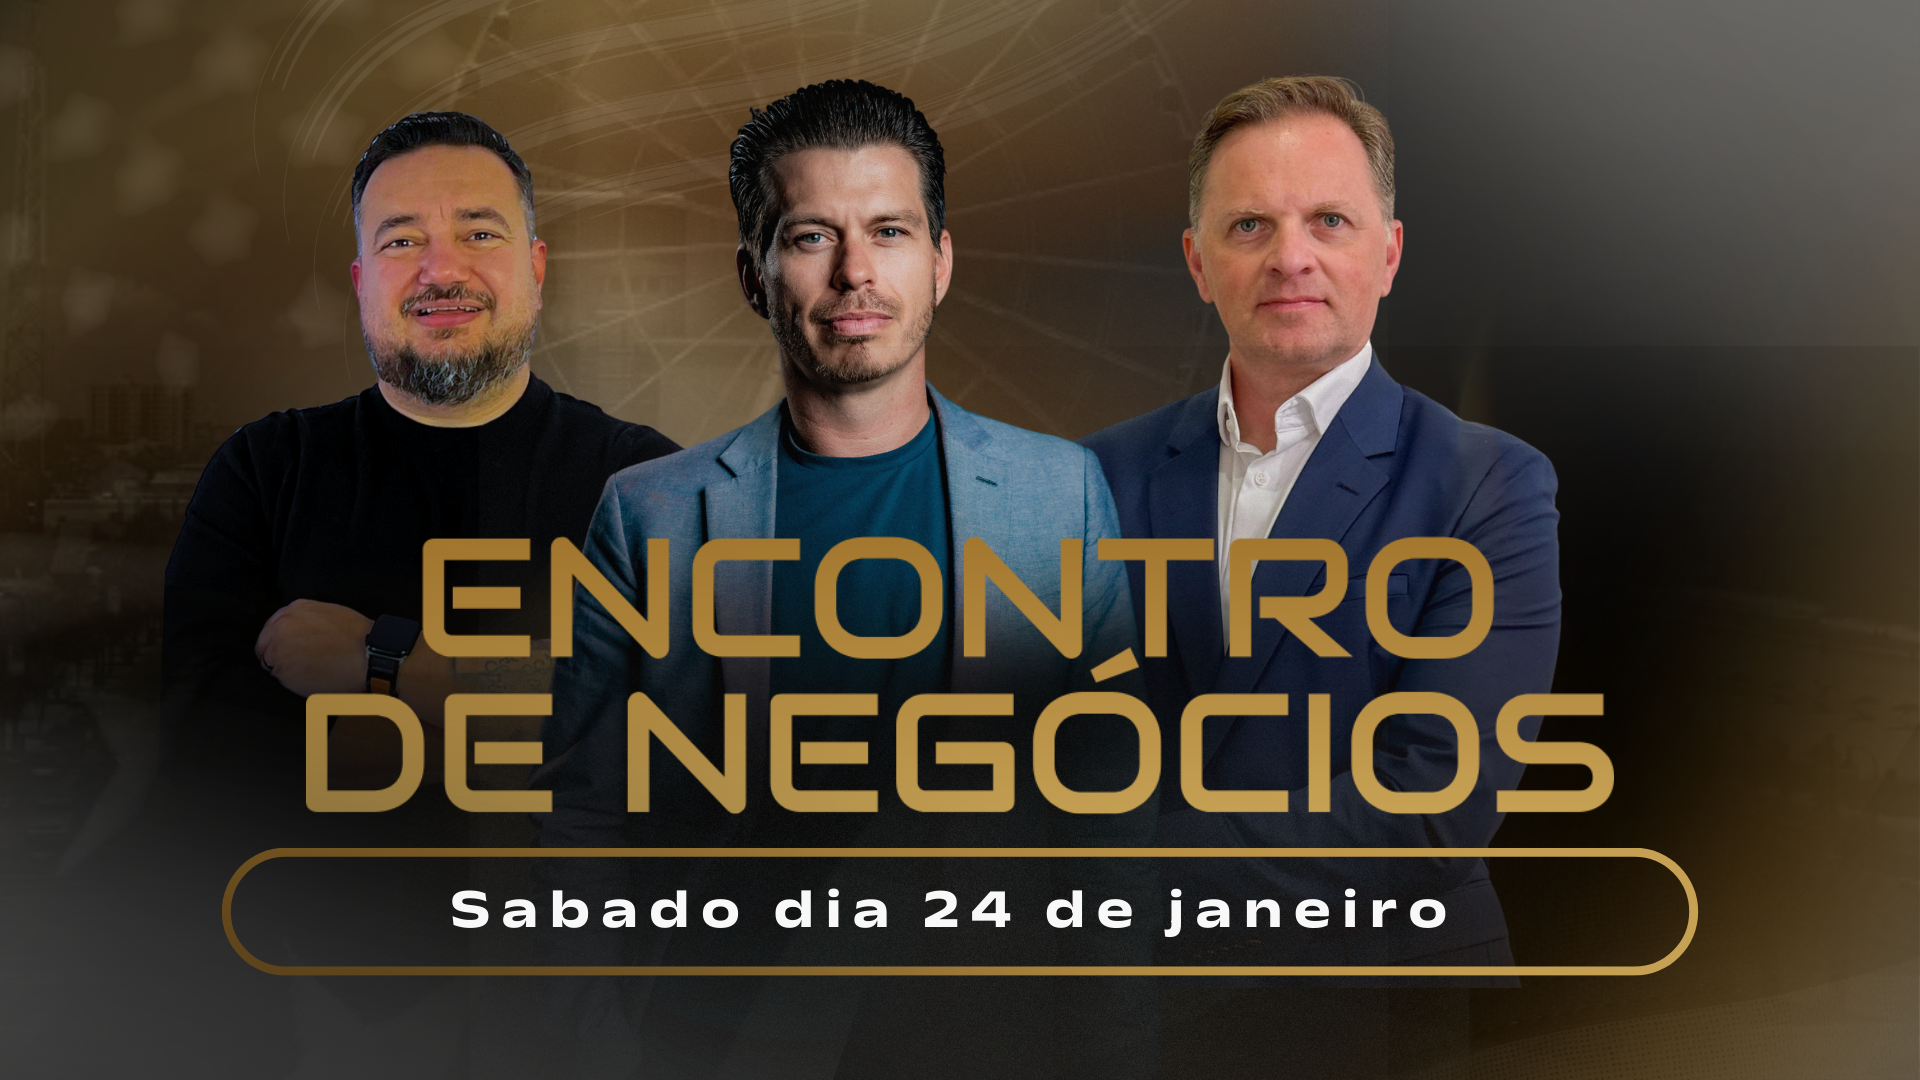
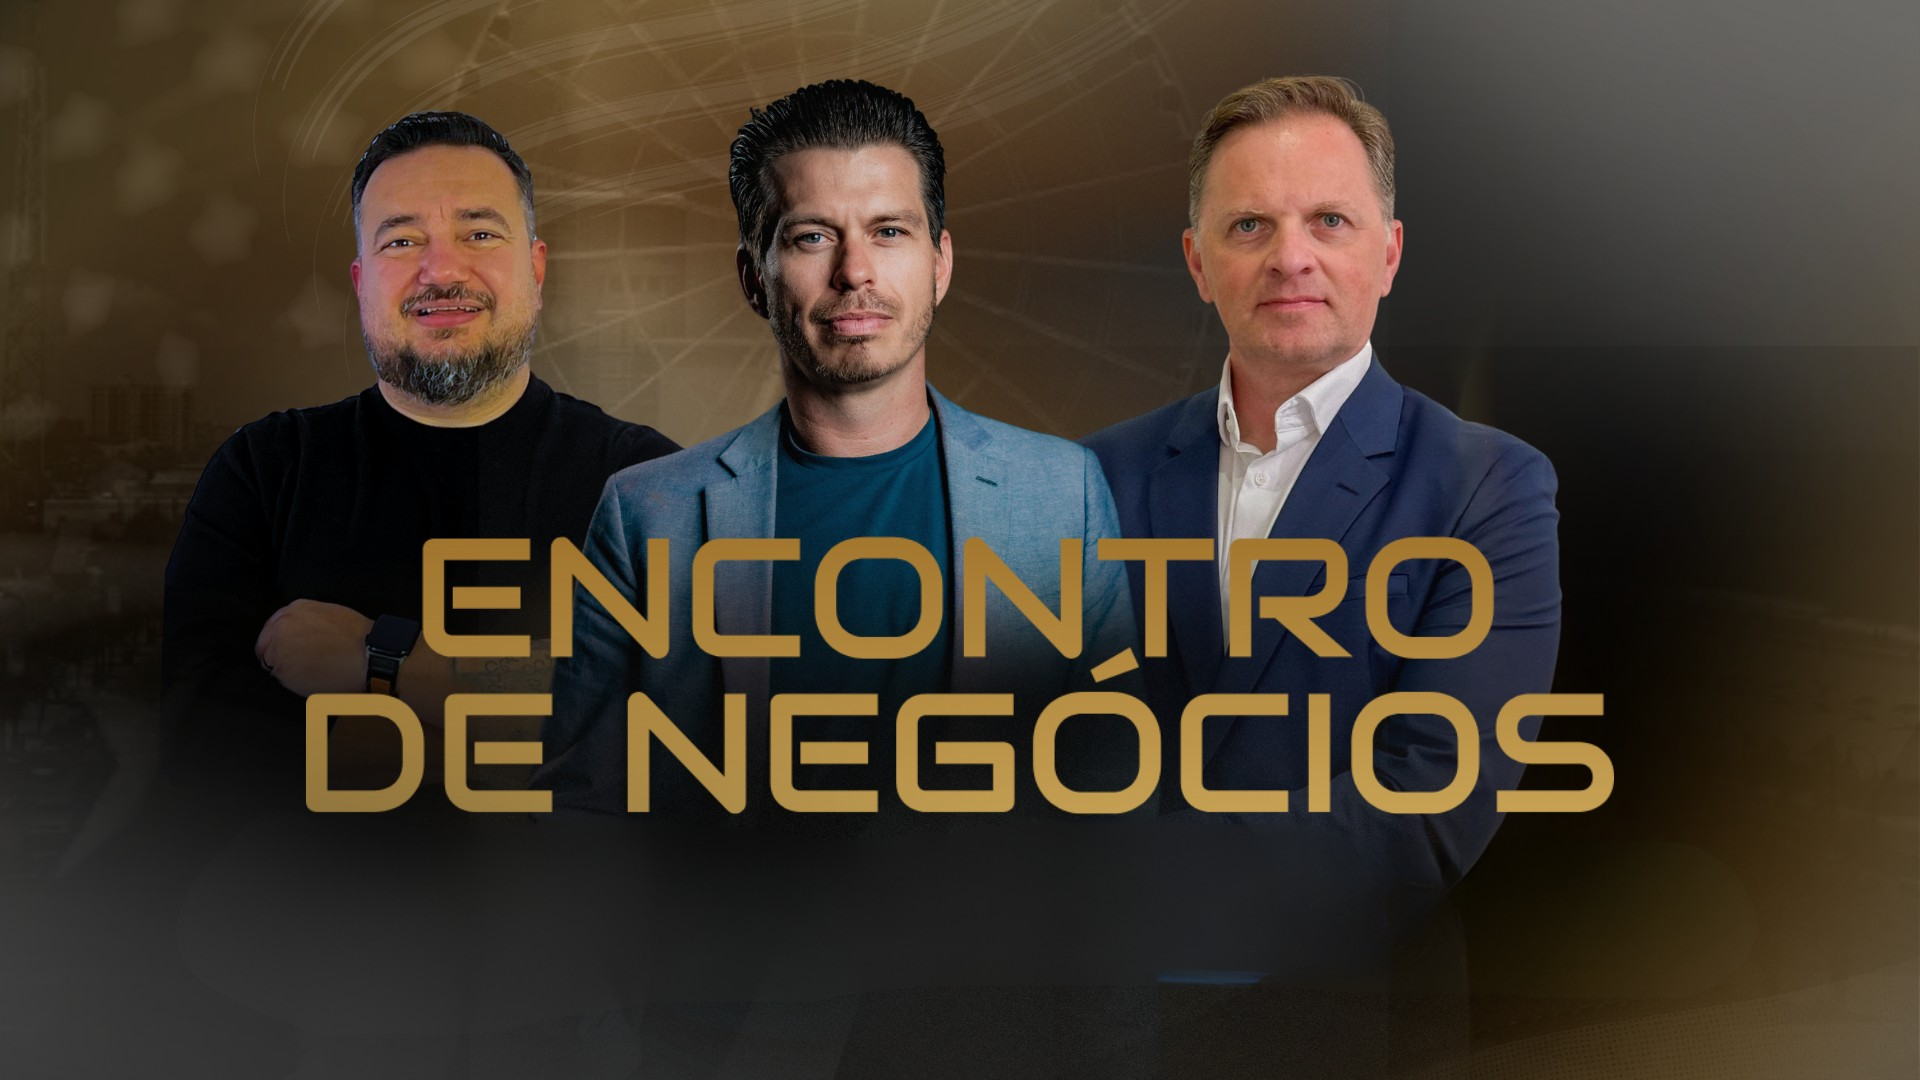
Ok

Changed region(s): [[0.125, 0.7639, 0.875, 0.9167], [0.875, 0.825, 0.9062, 0.8861], [0.0938, 0.825, 0.125, 0.8861]]

diff --git a/components/Details.tsx b/components/Details.tsx
@@ -4,14 +4,23 @@ import Button from './Button';
 import { Calendar, MapPin, Lock, Briefcase, TrendingUp, Users } from 'lucide-react';
 
 const Details: React.FC = () => {
+  // 🔗 Lendo parâmetros da URL
+  const searchParams = new URLSearchParams(window.location.search);
+
+  const date = searchParams.get('date') || '24 de Janeiro';
+  const location = searchParams.get('location') || COPY.DETAILS.LOCATION;
+  const time = searchParams.get('time') || COPY.DETAILS.TIME;
+
   return (
     <section className="py-8 md:py-8 bg-gray-50 text-gray-900 relative">
       <div className="container mx-auto px-4">
         <div className="max-w-4xl mx-auto">
+          
           {/* Subheadline + Intro */}
           <div className="text-center mb-10">
             <h2 className="text-xl md:text-2xl font-bold text-gray-900 mb-4 leading-relaxed">
-              <span className="text-brand-gold">24 de Janeiro.</span> <br/>
+              <span className="text-brand-gold">{date}.</span>
+              <br />
               {COPY.DETAILS.INTRO}
             </h2>
           </div>
@@ -20,52 +29,78 @@ const Details: React.FC = () => {
           <div className="grid grid-cols-1 md:grid-cols-3 gap-6 mb-10">
             <div className="bg-white p-6 rounded-xl border border-gray-200 shadow-md hover:shadow-lg hover:border-brand-gold/30 transition-all group text-center flex flex-col items-center justify-center">
               <Users className="w-8 h-8 text-brand-gold mb-3 group-hover:scale-110 transition-transform" />
-              <h3 className="text-base font-bold text-gray-900 uppercase tracking-wide">{COPY.DETAILS.POINTS[0]}</h3>
+              <h3 className="text-base font-bold text-gray-900 uppercase tracking-wide">
+                {COPY.DETAILS.POINTS[0]}
+              </h3>
             </div>
+
             <div className="bg-white p-6 rounded-xl border border-gray-200 shadow-md hover:shadow-lg hover:border-brand-gold/30 transition-all group text-center flex flex-col items-center justify-center">
               <TrendingUp className="w-8 h-8 text-brand-gold mb-3 group-hover:scale-110 transition-transform" />
-              <h3 className="text-base font-bold text-gray-900 uppercase tracking-wide">{COPY.DETAILS.POINTS[1]}</h3>
+              <h3 className="text-base font-bold text-gray-900 uppercase tracking-wide">
+                {COPY.DETAILS.POINTS[1]}
+              </h3>
             </div>
+
             <div className="bg-white p-6 rounded-xl border border-gray-200 shadow-md hover:shadow-lg hover:border-brand-gold/30 transition-all group text-center flex flex-col items-center justify-center">
               <Briefcase className="w-8 h-8 text-brand-gold mb-3 group-hover:scale-110 transition-transform" />
-              <h3 className="text-base font-bold text-gray-900 uppercase tracking-wide">{COPY.DETAILS.POINTS[2]}</h3>
+              <h3 className="text-base font-bold text-gray-900 uppercase tracking-wide">
+                {COPY.DETAILS.POINTS[2]}
+              </h3>
             </div>
           </div>
 
           {/* Logistics Box */}
           <div className="bg-white rounded-xl p-6 border-l-4 border-brand-gold shadow-xl mb-8 transform hover:scale-[1.005] transition-transform">
-            <div className="flex flex-col md:flex-row gap-6 justify-between items-center">
-              <div className="space-y-4 w-full">
-                <div className="flex items-center space-x-4 pb-3 border-b border-gray-100">
-                  <div className="bg-brand-gold/10 p-2 rounded-full">
-                    <MapPin className="text-brand-gold w-5 h-5 flex-shrink-0" />
-                  </div>
-                  <div>
-                    <p className="text-[10px] text-gray-500 uppercase tracking-wide font-bold">Local</p>
-                    <p className="text-gray-900 leading-tight">{COPY.DETAILS.LOCATION}</p>
-                  </div>
+            <div className="space-y-4">
+
+              {/* Local */}
+              <div className="flex items-center space-x-4 pb-3 border-b border-gray-100">
+                <div className="bg-brand-gold/10 p-2 rounded-full">
+                  <MapPin className="text-brand-gold w-5 h-5" />
                 </div>
-                <div className="flex items-center space-x-4 pb-3 border-b border-gray-100">
-                  <div className="bg-brand-gold/10 p-2 rounded-full">
-                    <Calendar className="text-brand-gold w-5 h-5 flex-shrink-0" />
-                  </div>
-                  <div>
-                    <p className="text-[10px] text-gray-500 uppercase tracking-wide font-bold">Horário</p>
-                    <p className=" text-gray-900 leading-tight">{COPY.DETAILS.TIME}</p>
-                  </div>
+                <div>
+                  <p className="text-[10px] text-gray-500 uppercase tracking-wide font-bold">
+                    Local
+                  </p>
+                  <p className="text-gray-900 leading-tight">
+                    {location}
+                  </p>
                 </div>
-                <div className="flex items-center space-x-3 pt-1">
-                  <div className="bg-brand-gold/10 p-2 rounded-full">
-                    <Lock className="text-brand-gold w-4 h-4 flex-shrink-0" />
-                  </div>
-                  <p className="text-sm text-gray-600 font-medium italic">{COPY.DETAILS.DISCLAIMER}</p>
+              </div>
+
+              {/* Horário */}
+              <div className="flex items-center space-x-4 pb-3 border-b border-gray-100">
+                <div className="bg-brand-gold/10 p-2 rounded-full">
+                  <Calendar className="text-brand-gold w-5 h-5" />
                 </div>
+                <div>
+                  <p className="text-[10px] text-gray-500 uppercase tracking-wide font-bold">
+                    Horário
+                  </p>
+                  <p className="text-gray-900 leading-tight">
+                    {time}
+                  </p>
+                </div>
+              </div>
+
+              {/* Disclaimer */}
+              <div className="flex items-center space-x-3 pt-1">
+                <div className="bg-brand-gold/10 p-2 rounded-full">
+                  <Lock className="text-brand-gold w-4 h-4" />
+                </div>
+                <p className="text-sm text-gray-600 font-medium italic">
+                  {COPY.DETAILS.DISCLAIMER}
+                </p>
               </div>
             </div>
           </div>
 
           <div className="text-center">
-            <Button variant="primary" fullWidth={false} className="w-full md:w-auto py-3 shadow-lg hover:shadow-xl text-sm">
+            <Button
+              variant="primary"
+              fullWidth={false}
+              className="w-full md:w-auto py-3 shadow-lg hover:shadow-xl text-sm"
+            >
               {COPY.DETAILS.CTA}
             </Button>
           </div>

diff --git a/components/Button.tsx b/components/Button.tsx
@@ -15,10 +15,19 @@ const Button: React.FC<ButtonProps> = ({
   className = '',
   fullWidth = false
 }) => {
-  const baseStyles = "inline-flex items-center justify-center font-bold uppercase tracking-wider transition-all duration-300 transform active:scale-95 group focus:outline-none focus:ring-2 focus:ring-brand-gold focus:ring-offset-2 focus:ring-offset-black";
+  // 🔗 Checkout dinâmico pela URL
+  const searchParams = new URLSearchParams(window.location.search);
+  const checkoutFromUrl = searchParams.get('checkout');
+
+  const checkoutUrl = checkoutFromUrl
+    ? decodeURIComponent(checkoutFromUrl)
+    : CHECKOUT_URL;
+
+  const baseStyles =
+    "inline-flex items-center justify-center font-bold uppercase tracking-wider transition-all duration-300 transform active:scale-95 group focus:outline-none focus:ring-2 focus:ring-brand-gold focus:ring-offset-2 focus:ring-offset-black";
   
   const variants = {
-    primary: "bg-brand-gold text-black hover:bg-white hover:text-black py-4 px-8 rounded shadow-[0_0_20px_rgba(170,129,60,0.4)] hover:shadow-[0_0_30px_rgba(170,129,60,0.6)] text-sm md:text-base",
+    primary: "bg-brand-gold text-black hover:bg-white hover:text-black py-4 px-8 rounded shadow-[0_0_20px_rgba(170,129,60,0.4)] hover:shadow-[0_0_30px_rgba(170,12960,0.6)] text-sm md:text-base",
     outline: "border-2 border-brand-gold text-brand-gold hover:bg-brand-gold hover:text-black py-3 px-8 rounded text-sm md:text-base",
     sticky: "bg-brand-gold text-black py-3 px-6 rounded-full font-bold shadow-lg text-sm"
   };
@@ -27,7 +36,7 @@ const Button: React.FC<ButtonProps> = ({
 
   return (
     <a 
-      href={CHECKOUT_URL}
+      href={checkoutUrl}
       target="_blank"
       rel="noopener noreferrer"
       className={`${baseStyles} ${variants[variant]} ${widthClass} ${className}`}

diff --git a/components/Hero.tsx b/components/Hero.tsx
@@ -1,14 +1,16 @@
 import React from 'react';
 import { COPY } from '../constants';
 import Button from './Button';
-
-// 👇 importa direto do assets
 import heroBanner from '@/assets/imgHero.png';
 
 const Hero: React.FC = () => {
+  // 🔗 Lendo parâmetros da URL
+  const searchParams = new URLSearchParams(window.location.search);
+  const city = searchParams.get('city') || 'Jacksonville';
+
   return (
     <section className="relative min-h-[90vh] flex items-center justify-center overflow-hidden">
-      <div className="container mx-auto px-4 relative z-10 text-center max-w-4xl pt-8 pb-8 ">
+      <div className="container mx-auto px-4 relative z-10 text-center max-w-4xl pt-8 pb-8">
         
         <div className="mb-6 inline-block animate-fade-in-down">
           <span className="bg-brand-gold/20 text-brand-gold border border-brand-gold/50 px-4 py-1 rounded-full text-xs md:text-sm font-semibold tracking-[0.2em] uppercase">
@@ -26,7 +28,7 @@ const Hero: React.FC = () => {
         </div>
 
         <h1 className="text-4xl md:text-6xl font-extrabold text-white leading-tight mb-6 drop-shadow-2xl font-serif">
-          Jacksonville será o ponto de encontro dos{' '}
+          {city} será o ponto de encontro dos{' '}
           <span className="text-brand-gold">empresários que mais crescem</span> nos EUA.
         </h1>
 

diff --git a/constants.ts b/constants.ts
@@ -17,7 +17,7 @@ export const COPY = {
     CTA: "Quero estar entre os empresários que mais crescem"
   },
   DETAILS: {
-    INTRO: "No dia 24 de janeiro, empresários e empreendedores com visão de crescimento vão se reunir para uma imersão de 6 horas, com foco total em:",
+    INTRO: "Empresários e empreendedores com visão de crescimento vão se reunir para uma imersão de 6 horas, com foco total em:",
     POINTS: [
       "Conexões estratégicas",
       "Visão de crescimento",
@@ -62,7 +62,7 @@ export const COPY = {
   ],
   TESTIMONIALS_CTA: "Quero fazer parte desse grupo seleto",
   URGENCY: {
-    ALERT: "O Encontro de Negócios acontece no sábado, 24 de janeiro.",
+    ALERT: "O Encontro de Negócios",
     TEXT: "As vagas são intencionalmente limitadas. Esse evento não é sobre volume, é sobre qualidade — e você pode estar nesse círculo. Uma única conversa pode mudar o rumo da sua empresa.",
     CTA: "Quero garantir minha vaga agora"
   },

diff --git a/components/StickyBar.tsx b/components/StickyBar.tsx
@@ -25,7 +25,7 @@ const StickyBar: React.FC = () => {
       <div className="container mx-auto flex justify-between items-center max-w-4xl">
         <div className="hidden md:block">
             <p className="text-white font-bold">Encontro de Negócios</p>
-            <p className="text-xs text-brand-gold">24 de Janeiro • Jacksonville, FL</p>
+           
         </div>
         <div className="w-full md:w-auto">
           <Button variant="sticky" fullWidth={true} className="bg-gradient-to-r from-brand-gold to-[#d4af37] text-black">
